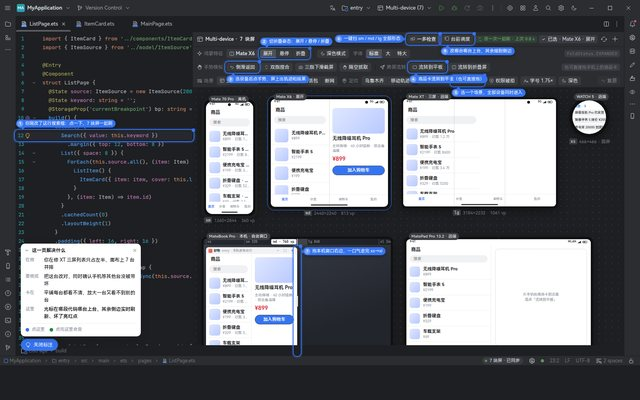
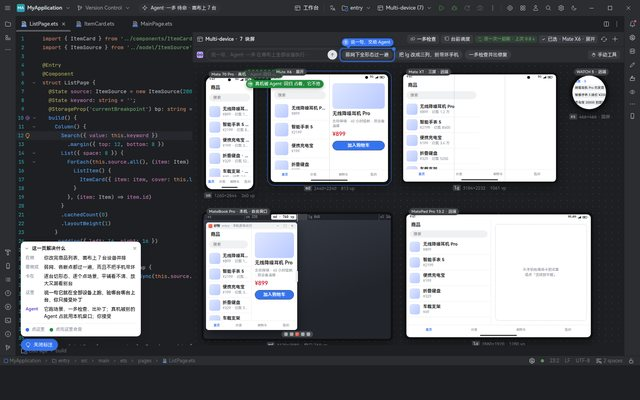
终轮 18–21：分布式调试由 Agent 对齐日志出补丁、远端调试由 Agent 借机复现、连接由 Agent 诊断自修（重启 hdc 先列出受影响的 Agent）、胶囊统一为顶栏一枚与在等你队列；修浅色主题顶栏胶囊在等你的字色

diff --git a/demos/28-appfreeze-report/index.html b/demos/28-appfreeze-report/index.html
@@ -255,6 +255,7 @@ h1{font-size:30px;font-weight:600;line-height:1.3;color:var(--ink)}
   <main class="main" id="main"></main>
 </div>
 <div class="tip" id="tip"></div>
+<script src="../_shared/guide.js"></script>
 
 <script>
 /* =====================================================================
@@ -411,6 +412,41 @@ const $ = s=>document.querySelector(s), $$ = s=>[...document.querySelectorAll(s)
 const esc = s=>String(s).replace(/&/g,'&amp;').replace(/</g,'&lt;').replace(/>/g,'&gt;');
 const ic = (id,cls='')=>`<svg class="i ${cls}"><use href="#i-${id}"/></svg>`;
 let mode=location.hash==='#v1'?'v1':'v2';
+/* ---------- 让 Agent 修：v1 先要读源码的许可，v2 写入补丁 → 在等你装机 → 真机复测 ---------- */
+let AG={phase:'idle',written:false,ref:false,n:0,t:[]};
+const DEV='HUAWEI Mate 70 Pro';
+function trow(ico,what,st,end){
+  return `<div class="ai-toolrow">${st==='run'?'<span class="ai-ring"></span>':`<svg class="ai-ico"><use href="#${ico}"/></svg>`}<span class="what">${what}</span><span class="end">${st==='run'?(end||''):'<span class="ok">✓</span> '+(end||'')}</span></div>`;
+}
+function agHTML(v2){
+  const p=AG.phase, lg='<svg class="lg"><use href="#ai-logo-16"/></svg>';
+  if(!v2){
+    if(p==='idle') return `<div class="agbar">${lg}<span class="grow">源码不可达：这次按要求没读工程源码，只能给通用方向。让 Agent 读源码，就能定位到行、写出补丁。</span><button class="ai-btn ai-btn--primary" type="button" data-ag="askread">让 Agent 读源码出补丁</button></div>`;
+    if(p==='waitread') return `<div class="ai-approve"><div class="ai-approve__h"><span class="ai-wait-dot"></span>在等你 · Agent·冻屏 想读工程源码</div><p class="ai-approve__why">只读 <code>entry/src/main/ets</code> 和 git 历史，找故障版本、定位到行；这一步不改文件。</p><div class="ai-approve__act"><button class="ai-btn ai-btn--primary" type="button" data-ag="read">允许读源码</button><button class="ai-btn" type="button" data-ag="noread">不用</button></div></div>`;
+    if(p==='reading') return trow('ai-tool','检索源码 · FreezeNoteDetailPage.ets、NoteRepository.ets、FreezeTestHelper.ets',AG.n>0?'ok':'run','3 个文件')+(AG.n>0?trow('ai-tool','git 考古 · 故障版本 <code>4ca0c7e</code>（10:31:50）','run'):'');
+    return `<div class="agbar">${lg}<span class="grow">好，先按通用方向来。要行级补丁随时再让它读源码。</span><button class="ai-btn" type="button" data-ag="askread">让 Agent 读源码出补丁</button></div>`;
+  }
+  if(p==='idle') return `<div class="agbar">${lg}<span class="grow">下面 3 处补丁是 Agent·冻屏 按源码 4ca0c7e 写的，还没在真机上验过。</span><button class="ai-btn ai-btn--primary" type="button" data-ag="fix">让 Agent 修并真机复测</button></div>`;
+  let h='';
+  h+=trow('ai-edit','写入 3 处 · <code>FreezeNoteDetailPage.ets</code> <code>NoteRepository.ets</code>',p==='write'?'run':'ok','+14 −13');
+  if(p!=='write') h+=trow('ai-tool','<code>hvigorw assembleHap</code>',p==='build'?'run':'ok','6.1 s');
+  if(p==='wait') h+=`<div class="ai-approve" id="ag-wait"><div class="ai-approve__h"><span class="ai-wait-dot"></span>在等你 · 装到 ${DEV} 上复测？</div><p class="ai-approve__why">会覆盖安装调试包、打开冻屏测试模式、连点两次「保存」跑 3 轮，复测完关掉测试模式；笔记数据保留。</p><div class="ai-approve__cmd">hdc -t 5G3AC2 install -r entry-default-signed.hap\nhdc shell aa start -a EntryAbility -b com.example.freezetest</div><div class="ai-approve__act"><button class="ai-btn ai-btn--primary" type="button" data-ag="go">装机复测</button><button class="ai-btn" type="button" data-ag="revert">先不装，退回补丁</button></div></div>`;
+  if(p==='run'||p==='done') h+=trow('ai-verify',`在 ${DEV} 上连点两次保存 · 看主线程与 EventHandler`,p==='run'?'run':'ok',p==='run'?`${AG.n} / 3 轮`:'3 / 3 轮');
+  if(p==='done') h+=`<div class="ai-answer"><p class="ai-answer__lead">修好了：连点两次保存，主线程最长任务 4.0 s → 21 ms，3 轮都没触发冻屏。</p><p class="ai-answer__body">HiLog 里 <code>saveNoteWithAttachmentsAsync</code> 8 步都在 await 间让出主线程；EventHandler 队列峰值 115 → 6。复测记录已加到证据清单最后一项。</p><div class="evl"><span class="tag ev">证据</span>任务「FREEZE-0605」· Agent·冻屏 · ${DEV} · 3 轮 HiLog 与 EventHandler dump</div><div class="ai-answer__foot"><button class="ai-btn ai-btn--fill" type="button" data-ag="checks">看复测证据</button><button class="ai-btn" type="button" data-ag="revert"><svg><use href="#ai-revert"/></svg>退回</button><span class="grow"></span><span class="ai-fb"><button type="button" title="有用"><svg><use href="#ai-thumb-up"/></svg></button><button type="button" title="没用"><svg><use href="#ai-thumb-down"/></svg></button></span></div></div>`;
+  return h;
+}
+function agLater(fn,ms){AG.t.push(setTimeout(fn,ms))}
+function agSet(p){AG.phase=p;const b=document.getElementById('agbox');if(b)b.innerHTML=agHTML(mode==='v2');}
+function agAct(a){
+  if(a==='askread')agSet('waitread');
+  else if(a==='noread')agSet('noread');
+  else if(a==='read'){AG.n=0;agSet('reading');agLater(()=>{AG.n=1;agSet('reading')},800);agLater(()=>{AG.phase='idle';AG.n=0;AG.fromV1=true;location.hash='#v2'},1700);}
+  else if(a==='fix'){agSet('write');agLater(()=>{AG.written=true;render();agSet('build')},900);agLater(()=>agSet('wait'),1900);}
+  else if(a==='go'){AG.n=1;agSet('run');[2,3].forEach((k,i)=>agLater(()=>{AG.n=k;agSet('run')},700*(i+1)));agLater(()=>{AG.phase='done';openChecks.add('retest');render();document.getElementById('agbox').scrollIntoView({block:'center'})},2300);}
+  else if(a==='revert'){AG.t.forEach(clearTimeout);AG={phase:'idle',written:false,ref:AG.ref,n:0,t:[]};render();}
+  else if(a==='checks'){const el=document.querySelector('.ck[data-id="retest"]');if(el)el.scrollIntoView({block:'center'});}
+  else if(a==='ref'){AG.ref=true;render();const el=document.querySelector('.ck[data-id="sample"]');if(el)el.scrollIntoView({block:'center'});}
+}
 const openChecks=new Set(['queue','sample']);
 
 function render(anim){
@@ -541,6 +577,7 @@ document.addEventListener('pointerout',e=>{if(e.target.closest&&e.target.closest
 
 /* ---------- 交互：切换版本、展开证据、目录高亮、时间线悬停看原日志 ---------- */
 document.addEventListener('click',e=>{
+  const ag=e.target.closest('[data-ag]');if(ag){e.preventDefault();agAct(ag.dataset.ag);return;}
   const cp=e.target.closest('.copy');
   if(cp){
     e.preventDefault(); e.stopPropagation();
@@ -568,9 +605,31 @@ function spy(){
   $$('.side a[data-s]').forEach(a=>a.classList.toggle('on',a.dataset.s===cur));
 }
 addEventListener('scroll',spy,{passive:true});
-addEventListener('hashchange',()=>{mode=location.hash==='#v1'?'v1':'v2'; render(true); scrollTo({top:0});});
+addEventListener('hashchange',()=>{
+  mode=location.hash==='#v1'?'v1':'v2';
+  const fromV1=AG.fromV1;AG.t.forEach(clearTimeout);AG={phase:'idle',written:false,ref:AG.ref,n:0,t:[]};
+  render(true);
+  const f=document.getElementById('sec-fix');if(fromV1&&f)f.scrollIntoView();else scrollTo({top:0});
+});
+/* 主题：跟其他 demo 共用 deveco-theme */
+document.getElementById('theme-btn').addEventListener('click',()=>{
+  const cur=document.documentElement.getAttribute('data-theme')||(matchMedia('(prefers-color-scheme: dark)').matches?'dark':'light');
+  const nx=cur==='dark'?'light':'dark';document.documentElement.setAttribute('data-theme',nx);try{localStorage.setItem('deveco-theme',nx)}catch(_){}
+});
 
 render();
+DemoGuide.init([
+  {target:'#sec-verdict .vrows .tag',kind:'change',pos:'right',label:'每条结论标证据或推断，悬停看依据'},
+  {target:'#agbox .ai-btn--primary',kind:'click',pos:'top',label:'交给 Agent：出补丁、真机复测'},
+  {target:'#ag-wait',kind:'click',pos:'top',label:'在等你：装机复测要你点头'},
+  {target:'.ck[data-id="sample"] .ref .ai-btn',kind:'click',pos:'right',label:'别的 Agent 的证据：引用，不混放'}
+],{scene:{
+  at:'测试报了保存时冻屏，Agent 读完 faultlog 出了报告',
+  goal:'弄清哪几行导致冻屏，修掉并在真机上确认不再复现',
+  pain:'自己啃栈、队列、线程，翻 git 找行，再手动连点复现',
+  fix:'结论先行，证据推断分开标；一键修，真机复测回填',
+  agent:'它读日志出补丁复测；别的 Agent 的 trace 只引用；你拍板'
+}});
 </script>
 </body>
 </html>

diff --git a/demos/_shared/frame.css b/demos/_shared/frame.css
@@ -342,3 +342,4 @@
   --ai-wait-ink:#F5B64F;--ai-wait-tint:rgba(245,165,36,.16);--ai-surface-2:rgba(255,255,255,.08);--ai-ink:#B69CFF;
   color:#DFE1E5}
 .ide[data-ide-theme="light"]:not([data-light-header="1"]) .hdr .ai-status .t{color:#9DA0A8}
+.ide[data-ide-theme="light"]:not([data-light-header="1"]) .hdr .ai-status[data-state="waiting"]{color:var(--ai-wait-ink)}

diff --git a/analysis/ablation/13-ui-code-roundtrip.md b/analysis/ablation/13-ui-code-roundtrip.md
@@ -1,0 +1,46 @@
+# 13 设计稿到代码 · 可视化修改 · 消融记录（终轮）
+
+- **没有 Agent**：对着设计走查意见，在 Previewer / 模拟器上逐个点元素、拖间距、改属性，拖出来的是 `.padding(13)` 这种裸值；改完自己开折叠屏、平板挨个看，Ctrl+Z 会把自己和 AI 的改动一起撤，设计稿越改越旧。
+- **有 Agent**：你只拖、圈、说一句。拖（只改值、零延迟、不经过 Agent）松手后，它把值翻成 token 并问「改到哪 × 哪些断点」，每项写影响几处，连续第 3 次同类修改时默认值改成「ProductCard 本身」并说明理由；结构性改动先用虚线框确认范围再出 diff（琥珀「在等你」）；写回后 sm / md / lg 三档自己跑，问题档琥珀、点开就换到那台设备；每处改动记一条来源（你不打标 / Agent `.ai-src` / 设计稿同步中性小字），勾掉只退那一条；设计稿漂移逐条写明谁改的、三选一。
+- **多 Agent**：你一动它就停——Agent·界面 生成中你去拖卡片，它先停下，松手后在你的值上继续，同一属性听你的；Agent·多语言 同时改过 ProductCard 的「已售」文案，它的改动也记在改动记录里，和这次 diff 不同行、按行合并，也能单独退。
+
+## 智能规范第 11 / 12 章的 9 条建议怎么落的
+
+| # | 建议 | 结果 | 落在哪 |
+|---|---|---|---|
+| 1 | 松手出翻译条（token 取代裸值） | 做（与 2 合并） | 商品卡底边把手 → 写回卡第一行「写成：space_lg 16 ✦ / space_md 12 / 保留 15」；默认保留原值，Agent 建议带星芒，点了才换 |
+| 2 | 写回前问作用范围（改到哪 × 哪些断点，影响几处） | 做 | 写回卡第二、三行：「只 HomePage · 6 张 / ProductCard 本身 · 2 页 8 张」×「sm / md / lg 都跟 / 只在 sm」；选「只在 sm」生成 `BreakpointType` 并加 `@StorageProp('currentBreakpoint')`；「全局 token」一档没做（见下） |
+| 3 | 连续第三次同类修改出意图卡 | 做（并进 2） | 不另开卡片：第 3 次拖卡片内边距时，写回卡的默认范围换成「ProductCard 本身 ✦」，下方一行「你连着改了 3 次…建议改 ProductCard 本身」 |
+| 4 | 笔圈 / 一句话先 `.ai-select` 确认范围再出 diff | 做 | 一句话改：生成 → 理解中 → 列表或卡片出虚线框 + 角标「Agent 将改 · 外层 List + ProductCard」→「按这个范围改」才生成；M-Pen：圈完被选中的组件出同样的虚线框角标，点「发给 DevEco Code」才生成；接受后 `.ai-touched` 脉冲一次 |
+| 5 | 三种来源一种记法并进时间轴 | 做 | 底部新增「改动记录」面板（商品页时替代没用的 Inspector 遮罩）；Agent 写的代码行 `.ai-block/.ai-gut` 接受后 3 s 淡出，悬停竖条看来源；D2C 生成页右上角改为中性小字「设计稿同步 · …」；多状态预览文件头改 `.ai-src`。时间轴本体是 demo 14，这里只做同一种记法与单条回退 |
+| 6 | AI 生成中人去拖的冲突态 | 做 | 生成中拖卡片把手：胶囊与输入框变「你在改这张卡，我先停下」；松手 → 「在你的 12vp 上继续 · 第 2 处」；结果里写「内边距保留你拖的 12vp · 同一属性听你的」 |
+| 7 | 设计稿漂移清单三选一 | 做 | 「对照设计稿」每条差异加「谁改的」（git blame / 本次记录），三个按钮：回写设计稿 / 恢复设计值 / 有意偏离；原「按设计稿修正（N 处）」保留为「其余全部恢复设计值」 |
+| 8 | 写回后 sm / md / lg 自动跑三枚 `.ai-status` | 做（与预览档位合并） | 预览工具栏右侧三枚 `.ai-status`：写回后依次 verifying → 通过 / 琥珀（`md 单列被拉宽`）；它们同时是档位切换，点 md 换成 Mate X6 展开 2440 × 2240，lg 换成 MatePad Pro 13.2 2880 × 1920（按逻辑宽度渲染再缩放） |
+| 9 | 视觉统一 | 做 | 引 ai-icons.js，AI 入口换 ‹✦›；进行态全部换 `.ai-status` + 具体文案；步骤条（D2C、多状态）收成一行；在等你用琥珀；每屏只留一个蓝色主按钮 |
+
+没做的一处：**「全局 token」作用范围档**。它和第一行「写成哪个 token」语义重叠（改 token 的取值是设计系统的决定，不该由拖一下卡片触发），合进来要多一行条件 UI；按「简洁优先」只留「只这一页 / 组件本身」两档，改 token 值留给设计系统侧。
+
+## 消融
+
+| 元素 | 结果 | 依据 |
+|---|---|---|
+| 进页默认的登录页模拟器（手动点选改属性） | 降为次路径 | Agent 主流程在商品页；登录页的手动改属性、M-Pen、真机镜像保留在第二个标签，可点 |
+| 编辑器顶部「撤销「一句话改」」按钮与 Ctrl+Z | 删除 | 撤销栈只有一条，会把人和 Agent 的改动一起撤；换成改动记录里逐条勾掉 |
+| 状态栏「AI 改界面 · 写回 N 处」「M-Pen 圈选 · 写回 N 处」胶囊 | 删除 | 与改动记录、顶栏 Agent 胶囊重复 |
+| 状态栏「双向同步 · … 刷新 N 次 · 未经 AI」 | 合并 | 只留「双向同步 · 写回 N 次」；人改的不再打「未经 AI」的标 |
+| 预览工具栏的「已选中 ProductCard」签、Refresh / Rotate（商品页） | 删除 | 与代码顶栏选中信息、虚线框角标重复；旋转刷新是模拟器的事，商品页不显示 |
+| 设备下方说明文字（「点元素就能改…」「点商品卡，说一句话改界面」「悬停左侧图层，三处一起亮」「M-Pen：圈一块提问…」） | 删除 | 解释界面本身；M-Pen 面板已写「圈一块 = 提问」 |
+| D2C 面板说明卡「先匹配项目里已有的组件和资源 token…」 | 删除 | 解释机制；图层 ↔ 组件列表本身已表达 |
+| D2C 与多状态的 3 / 4 步编号步骤条 | 合并 | 各收成一行 `.ai-status`（工具 / 生成中 + 步数） |
+| 图层列表彩色胶囊（复用 / token / 新建）与标题栏三枚彩色计数 | 合并到中性小字 | polish 3：状态色只表达状态 |
+| 多状态预览里的「折叠屏展开」状态与它的「单列被拉宽」提示 | 合并 | 并进三档 md；多状态只留数据 / 环境状态（6 个） |
+| Inspector 事件区说明「断点加在组件事件上，不用先去代码里找那一行」 | 删除 | 解释设计理由 |
+| 对照设计稿脚注「比对 间距 / 字重 / 颜色 token / 圆角 · 容差 1vp」 | 删除 | 解释机制 |
+| 多屏协同连接卡里电脑 / 手机配对动画 | 删除 | polish 5：纯展示性的系统能力演示；三步连接列表保留 |
+| 比对画布的点阵底、卡片 / 行 / 面板的 1px 描边、设备与弹层的多层阴影 | 删除 | polish 2 / 5：改填充分层，弹层只留一层阴影 |
+| 自造 AI 蓝紫渐变竖条（`.dm-inline::before`）、蓝色 sparkle 图标 | 删除 | 统一到 ai.css 与 ‹✦› |
+| 蓝色：设备角标、双向同步 / 笔开关、选中胶囊、步骤圆点、待确认条、多状态勾选、组件树描边、代码可点数字 | 合并到中性色 | polish 3：蓝色只留主按钮、选中框、焦点；待确认条改琥珀 |
+| 差异标记的红色 | 改为警告色 | 漂移不是错误，是待你三选一的差异 |
+| Google Fonts、700 字重、「继续 F9」与 Alt+ 快捷键说法 | 删除 | 字体走 tokens；鸿蒙电脑版不用 Windows / IntelliJ 键位说法 |
+| 引导 9 条 | 合并为 5 条 | 从任务出发：点卡拖边 → 写回卡 → 三档 → 改动记录 → 手动次路径 |
+| D2C 导入、模拟器点选改属性、拖间距、运行时状态变量、组件事件断点、M-Pen 圈选、真机镜像（点选 / 键鼠操作 / 自由窗口）、一句话改、多状态 @Preview、对照设计稿并排 / 叠加 | 保留 | 原有能力全部可点 |

diff --git a/analysis/ablation/14-ai-timeline.md b/analysis/ablation/14-ai-timeline.md
@@ -1,0 +1,21 @@
+# 14 AI 协作时间轴 · 消融记录（终轮）
+
+- **没有 Agent**：自己记每次改了哪几行；改坏了只能整段撤销，或翻 diff 手工改回。
+- **有 Agent**：Agent·卡顿 按计划一步步改，每一步自动成为时间轴上的一格（来源、文件、行数、属于哪个计划）；你悬停看它跑到哪、点开挑一步「只退这一步」，其余保留；在 MateBook Fold 悬停时下屏拖到哪步，上屏回放那步改完的代码，正在写的那步用智能底色标出。
+- **多 Agent**：Agent·多语言 同时改 ItemCard 的文案，它的改动以来源行落在同一条时间线上（不在这里退）；你退第 3 步时发现两边撞在 ItemCard.ets 第 1 行 → 停下问你（琥珀），默认「按行合并后退」，只去掉第 3 步那一半；退第 4 步不撞行，结果里写明多语言的改动保留。
+
+| 元素 | 结果 | 依据 |
+|---|---|---|
+| 状态栏「DevEco Code · 第 6 / 7 步」胶囊 | 删除 | 与顶栏 Agent 胶囊重复；胶囊点开直接跳到正在跑的那一步 |
+| 状态栏「已撤回第 N 步 · …」胶囊 | 删除 | 与时间轴末尾的撤回记录重复；结果改为顶栏胶囊 done 一行，2.6 s 后回到进行态 |
+| 时间轴卡片底部说明「追不到的改动：bash 命令改的、子 agent 改的…四类标灰」 | 合并 | 换成真实的一行：Agent·多语言 的改动带来源落在时间线上、写明不在这里退 |
+| 对话里「点右边的时间轴展开完整过程」 | 删除 | 解释界面；换成一句 Agent·多语言 同时在改、改动单独记 |
+| 对话里的步骤行（`.step`） | 合并 | 改为 `.ai-toolrow` 一行 + 小环 |
+| Fold 顶栏「展开 3296×2472 · 18 英寸」与重复的两段「2472×1648」 | 合并 | 只留「悬停 110° · 上屏看代码，下屏拖时间轴 · 各 2472 × 1648」 |
+| Fold 场景点阵底、铰链渐变 | 删除 | polish 5：装饰；铰链改纯色 |
+| 迷你时间轴运行点的脉冲与外发光、主按钮松手脉冲光圈 | 删除 | 能不动的不加动效；运行点改智能色实心点 |
+| 蓝色：悬浮钮展开态、运行中节点与转圈、撤回记录节点、计划条、回放角标、读过的行、选中列、手指触点、计划编号链接色 | 合并到中性色 / 智能色 | polish 3：蓝只留主按钮、选中与播放头；Agent 在做的用 `--ai-ink` |
+| 悬浮钮、悬停卡、时间轴卡片、下屏轨道、圆角按钮的 1px 描边 | 删除 | polish 2：改填充 / 单层阴影 |
+| Google Fonts、600+ 字重堆叠、Alt+ 快捷键说法 | 删除 | 字体走 tokens；鸿蒙电脑版不用 Windows 键位说法 |
+| 引导「每做完 / 退掉一步，圆点跟着变」 | 删除 | 结果显而易见；换成多 Agent 撞行时的「先问你」 |
+| 迷你时间轴悬浮钮、悬停详情、计划卡与按计划高亮、只退这一步 / 退到之前 / 重做 / 中止、Fold 悬停上屏回放 + 下屏手指 / 笔拖动 | 保留 | 主流程与鸿蒙电脑能力 |
